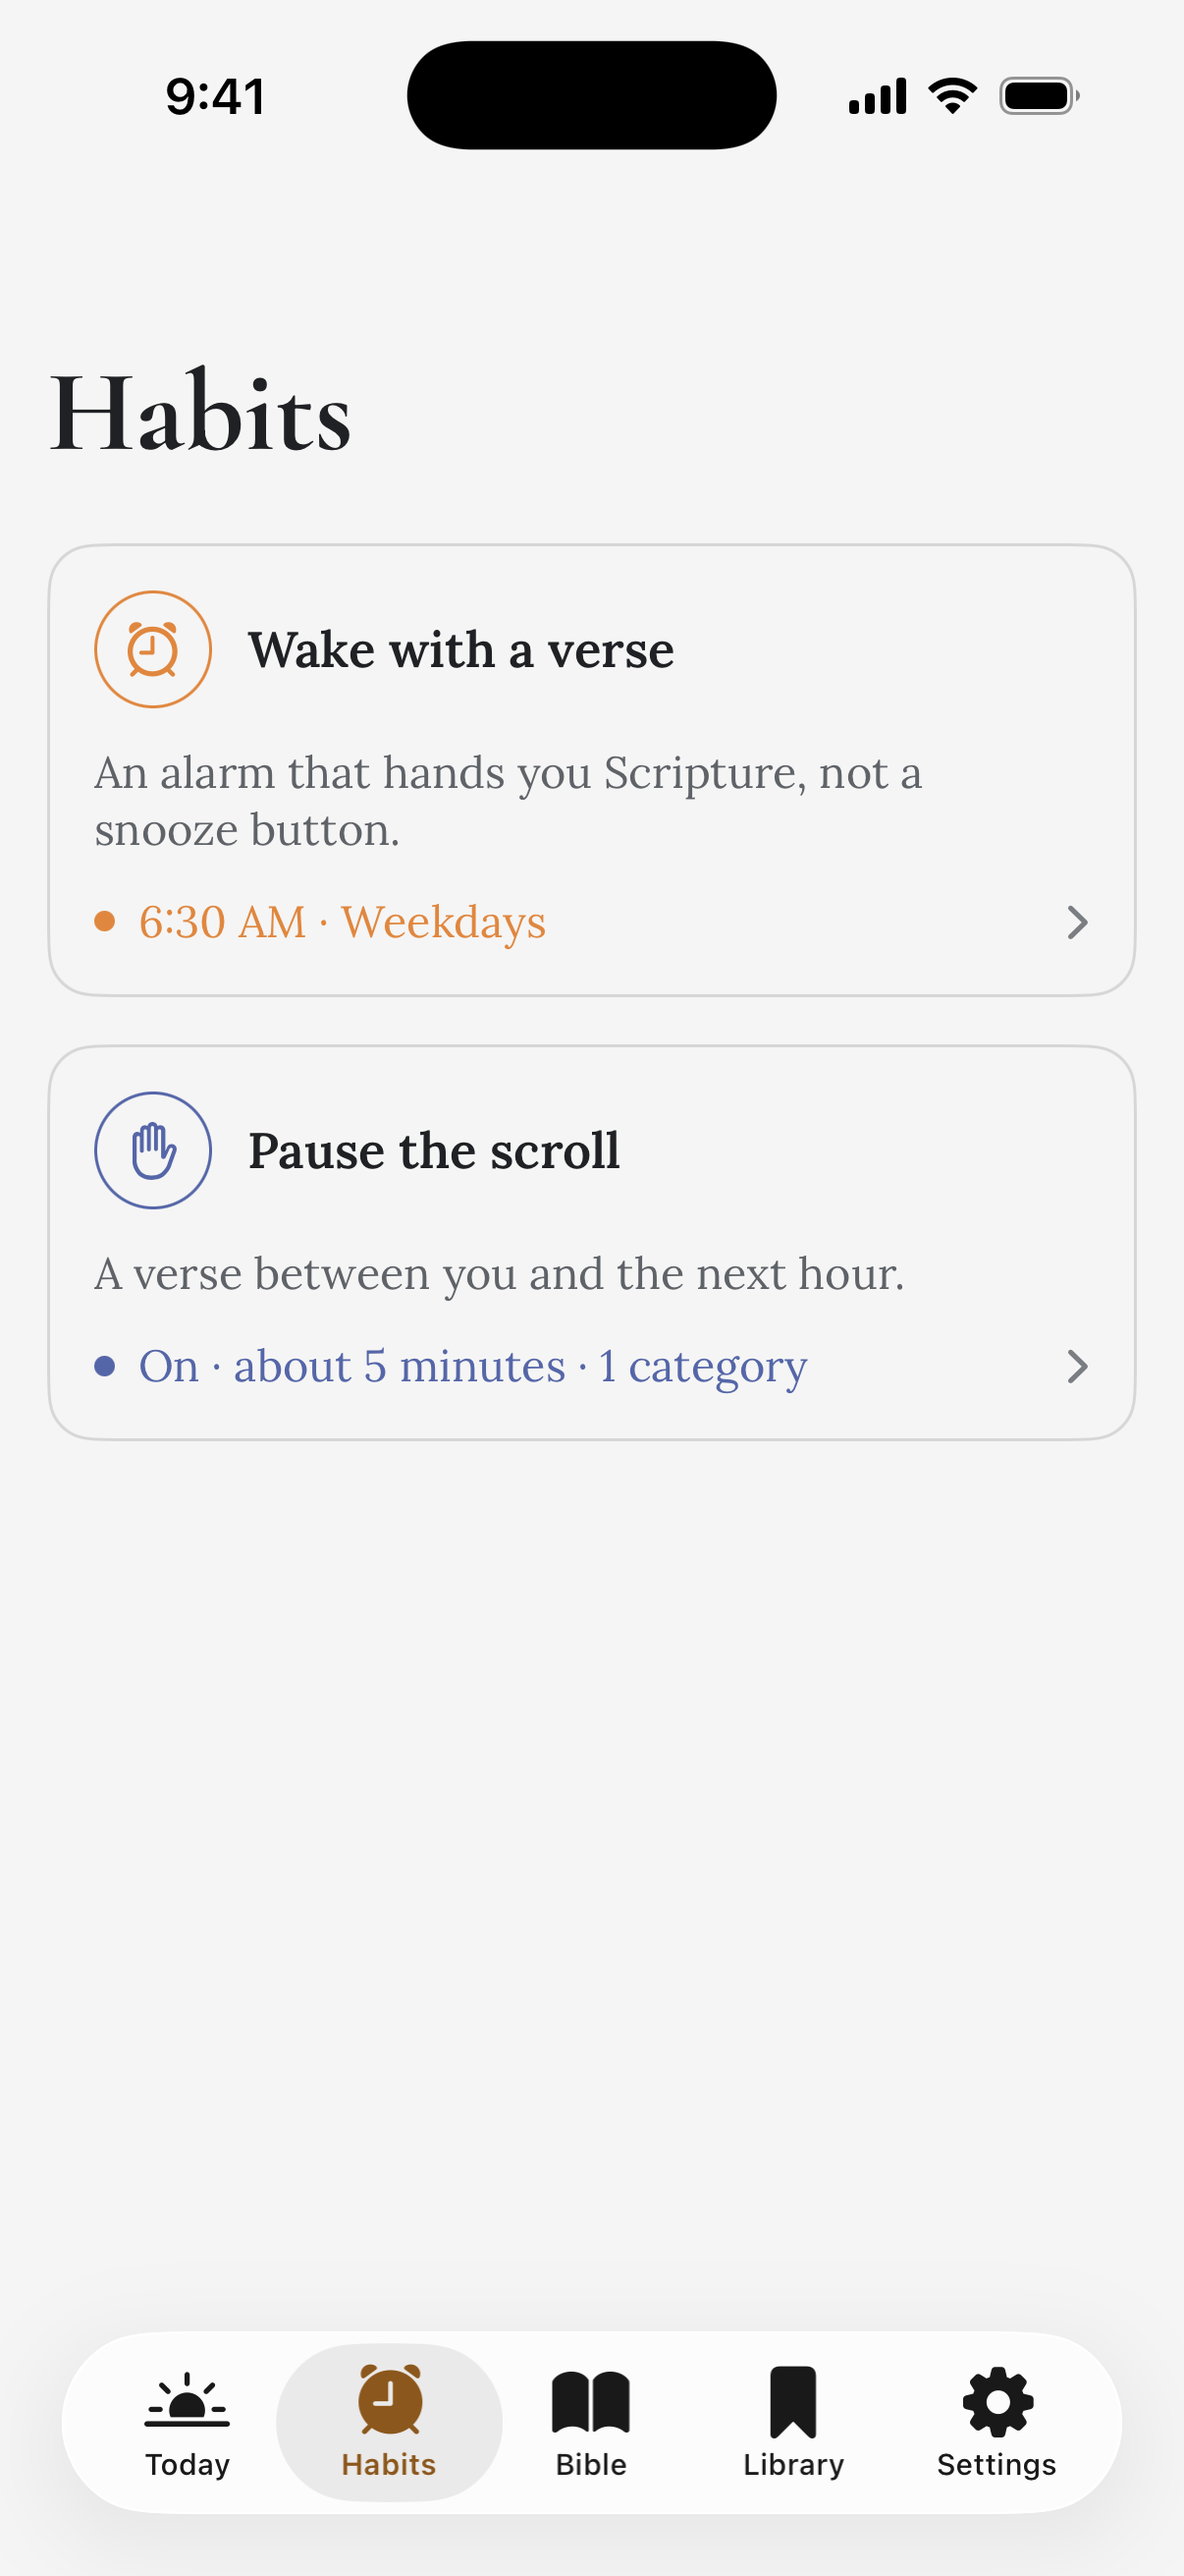
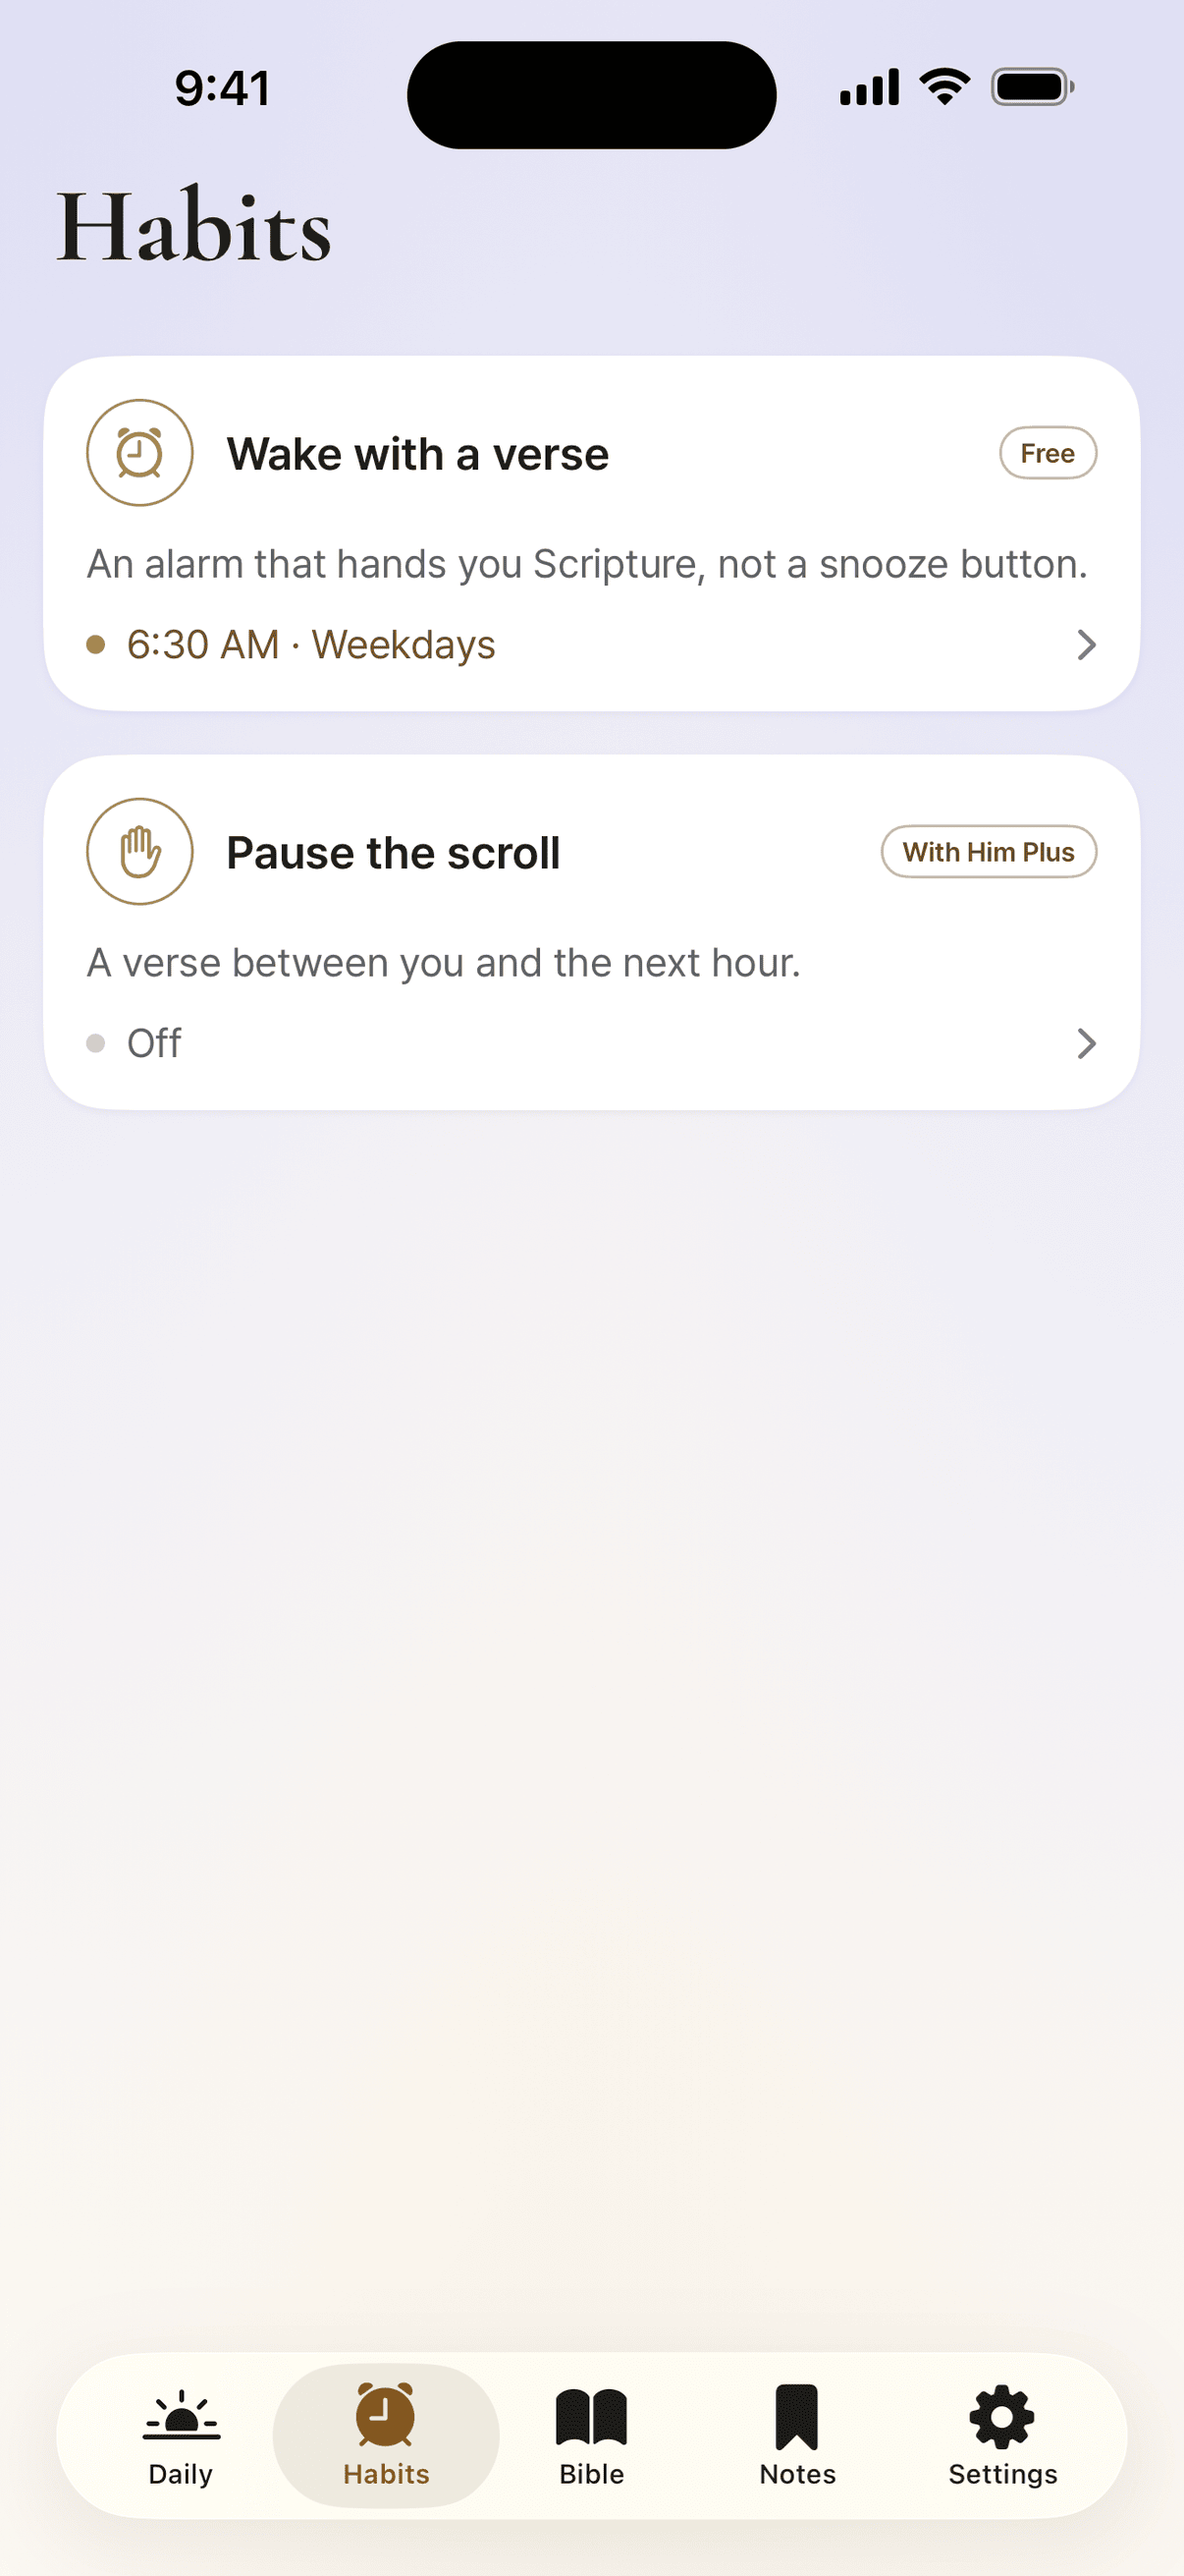
feat: show the app's Pearl Dusk light theme, and price what it reveals
The six landing-page captures were from the September build. Replace them
with the Pearl Dusk light-theme captures taken at 879b991, resampled to the
1206x2622 the pages already declare and quantised so the set stays near its
previous weight.

The new screens contradicted copy that had quietly gone stale:

- The saved-verse tab is now Notes, so library.png becomes notes.png and the
  Bible section says "Highlight verses and keep notes".
- The Habits screen badges the verse alarm Free and the Scroll Shield With
  Him Plus. The app agrees: PlusValueCopy.freePromise keeps Bible reading
  and the verse alarm free, and PaywallCopy.subhead sells Scroll Shield,
  sermon recording and cloud sync. Move the alarm into Free, rename the paid
  tier With Him Plus, and correct the same claim in terms.html section 4 and
  support.html section 6, which both still sold the alarm.
- The Scroll Shield spends an allowance of use, defaulting to ten minutes,
  not the five the page claimed.

Alt text that named Psalm 46 now names what the captures actually show, and
og.png is rendered from index.html's own hero markup rather than drawn by
hand, so the social card cannot drift from the page again.

diff --git a/index.html b/index.html
@@ -272,9 +272,9 @@
       <div class="hero-art" aria-label="With Him app screens">
         <div class="hero-stage">
           <div class="hero-arch" aria-hidden="true"></div>
-          <div class="device hero-back"><img src="assets/screenshots/today.png" width="1206" height="2622" alt="Today screen with Psalm 46 and the week's reading" fetchpriority="high"></div>
+          <div class="device hero-back"><img src="assets/screenshots/today.png" width="1206" height="2622" alt="Today screen with the day's verse from Isaiah 41 above the week's dates" fetchpriority="high"></div>
           <span class="hero-ring" aria-hidden="true"></span><span class="hero-ring second" aria-hidden="true"></span><span class="hero-ring third" aria-hidden="true"></span>
-          <div class="device hero-front"><img src="assets/screenshots/wake-gate.png" width="1206" height="2622" alt="Morning verse screen with words lighting up as they are read aloud" fetchpriority="high"></div>
+          <div class="device hero-front"><img src="assets/screenshots/wake-gate.png" width="1206" height="2622" alt="Morning verse screen with Isaiah 41:10 and the microphone that listens as you read" fetchpriority="high"></div>
           <span class="hero-chip"><i aria-hidden="true"><svg width="13" height="13" viewBox="0 0 24 24" fill="none" stroke="currentColor" stroke-width="2.4"><path d="M5 12.5l4.5 4.5L19 7.5"/></svg></i>Words light up as you read</span>
         </div>
       </div>
@@ -298,12 +298,12 @@
           <h3>Wake with a verse.</h3>
           <p>An alarm that hands you Scripture, not a snooze button. Read the verse out loud, watch each word light up, and the alarm goes quiet. No passage runs past sixty words.</p>
           <div class="moment-tags"><span>About 30 seconds</span><span>Or type it instead</span></div>
-          <div class="device moment-phone"><img src="assets/screenshots/habits.png" width="1206" height="2622" alt="Habits screen with a scheduled morning verse alarm" loading="lazy"></div>
+          <div class="device moment-phone"><img src="assets/screenshots/habits.png" width="1206" height="2622" alt="Habits screen with the free verse alarm set for 6:30 AM and Pause the scroll below it" loading="lazy"></div>
         </article>
         <article class="moment">
           <div class="moment-heading"><span class="moment-number">II</span>Mid-scroll</div>
           <h3>Pause the scroll.</h3>
-          <p>Guard your time against social media with a verse. After about five minutes of scrolling, one appears. Read it aloud and you’re right back in.</p>
+          <p>Guard your time against social media with a verse. After about ten minutes in the apps you picked, one appears. Read it aloud and you’re right back in.</p>
           <div class="moment-tags"><span>You pick the apps</span><span>Off in three taps, anytime</span></div>
           <div class="device moment-phone"><img src="assets/screenshots/focus-gate.png" width="1206" height="2622" alt="Pause the scroll screen with a verse and microphone" loading="lazy"></div>
         </article>
@@ -336,7 +336,7 @@
     <div class="container feature-layout">
       <div class="bible-gallery">
         <img class="shot" src="assets/screenshots/bible.png" width="1206" height="2622" alt="Bible reader open to John chapter 3 with a highlighted passage" loading="lazy">
-        <img class="shot" src="assets/screenshots/library.png" width="1206" height="2622" alt="Library screen showing saved verses and reading items" loading="lazy">
+        <img class="shot" src="assets/screenshots/notes.png" width="1206" height="2622" alt="Notes screen showing saved highlights with their own notes" loading="lazy">
       </div>
       <div>
         <h2 id="bible-title">The Bible is the heart of it.</h2>
@@ -344,7 +344,7 @@
         <ul class="feature-list">
           <li>All 66 books, free and offline</li>
           <li>Search the whole Bible</li>
-          <li>Save verses to your library</li>
+          <li>Highlight verses and keep notes</li>
         </ul>
       </div>
     </div>
@@ -352,28 +352,30 @@
   <section class="pricing-section" id="pricing" aria-labelledby="pricing-title">
     <div class="container">
       <div class="pricing-heading">
-        <h2 id="pricing-title">Scripture is free. Build the habit if you want to.</h2>
+        <h2 id="pricing-title">The Bible and the alarm are free. Plus is for the rest.</h2>
       </div>
       <div class="plans">
         <article class="plan">
           <h3>Free</h3>
           <p class="plan-price">$0</p>
-          <p>For reading whenever you need it.</p>
+          <p>Everything you need to wake up in the Word.</p>
           <ul>
             <li>The whole Bible, offline</li>
             <li>Today's verse and reading</li>
-            <li>Search and your library</li>
+            <li>Wake with a verse</li>
+            <li>Search, highlights, and notes</li>
           </ul>
           <a class="btn btn-ghost" href="https://apps.apple.com/us/app/with-him-wake-in-the-words/id6795353533" data-app-store="pricing-free">Get the app</a>
         </article>
         <article class="plan">
-          <h3>Habits</h3>
+          <h3>With Him Plus</h3>
           <p class="plan-price">$4.99 <small>/ month</small></p>
           <p>Or $39.99 a year. Eligible new subscribers get 7 days free.</p>
           <ul>
             <li>Everything in Free</li>
-            <li>Wake with a verse</li>
             <li>Pause the scroll</li>
+            <li>Record sermons and keep the notes</li>
+            <li>Your notes and highlights in sync</li>
           </ul>
           <a class="btn btn-primary" href="https://apps.apple.com/us/app/with-him-wake-in-the-words/id6795353533" data-app-store="pricing-habits">Explore in the app</a>
         </article>

diff --git a/support.html b/support.html
@@ -125,8 +125,8 @@
         <p>Apple hands the app opaque tokens instead of app identities, by design. We genuinely cannot see your selection, which is also why the app shows counts rather than names.</p>
 
         <h2 id="plus">6. What costs money, and what does not</h2>
-        <p><strong>The Bible reader is free and stays free.</strong> The complete offline text, search, cross-references, highlights, notes, bookmarks and the daily verse are not behind the subscription and are not scheduled to be.</p>
-        <p>With Him Plus buys the two mechanics around the reading: the alarm that ends when a verse is read aloud, and the Focus Shield. It is offered monthly or annually, and the price, the period and any trial are shown on the purchase screen in your own currency before you confirm.</p>
+        <p><strong>The Bible reader is free and stays free.</strong> The complete offline text, search, cross-references, highlights, notes, bookmarks and the daily verse are not behind the subscription and are not scheduled to be. <strong>The verse alarm is free too.</strong></p>
+        <p>With Him Plus buys the Focus Shield, sermon recording and note preparation, and account sync for your notes, highlights and bookmarks. It is offered monthly or annually, and the price, the period and any trial are shown on the purchase screen in your own currency before you confirm.</p>
         <h3>I paid, but Plus is not active</h3>
         <p>Open the paywall and tap <strong>Restore purchases</strong>. If nothing is found, the usual cause is a different Apple Account — subscriptions belong to the Apple Account that bought them, not to the app. Sign in with that account and restore again.</p>
 

diff --git a/terms.html b/terms.html
@@ -92,12 +92,14 @@
 
         <h2 id="free">3. What is free</h2>
         <p><strong>The Bible reader is free and stays free.</strong> The complete offline text, search, cross-references, highlights, notes and bookmarks are not behind the subscription and are not scheduled to be. Scripture is not a feature to be metered, and we will not begin metering it.</p>
+        <p><strong>The Voice-Dismissed Alarm is also free.</strong> The alarm that ends when a verse has been read aloud, and the daily verse it draws from, are not behind the subscription.</p>
 
         <h2 id="subscription">4. The subscription</h2>
-        <p>The subscription — With Him Plus — buys the two mechanics that surround the reading rather than the reading itself:</p>
+        <p>The subscription — With Him Plus — buys what surrounds the free reading and the free alarm rather than either of them:</p>
         <ul>
-          <li>The <strong>Voice-Dismissed Alarm</strong>, which ends when a verse has been read aloud rather than when a button is tapped.</li>
           <li>The <strong>Focus Shield</strong>, which interrupts a long scroll with the same short reading.</li>
+          <li><strong>Sermon recording and note preparation</strong>, which turns a service you recorded into a draft you edit and keep.</li>
+          <li><strong>Account sync</strong> for your notes, highlights and bookmarks, so they return on a new device.</li>
         </ul>
         <p>It is offered as a monthly and an annual plan. Where a free trial is offered, its length is stated on the purchase screen before you commit, and it applies once per Apple ID and per subscription group.</p>
 

diff --git a/join.html b/join.html
@@ -103,7 +103,7 @@
         <p class="cta-note">For iPhone · Requires iOS 26 or later · Free to download, with optional in-app purchases</p>
       </div>
       <figure class="preview">
-        <img src="assets/screenshots/wake-gate.png" width="1206" height="2622" alt="With Him wake screen showing Psalm 46:1 and a prompt to read the verse aloud.">
+        <img src="assets/screenshots/wake-gate.png" width="1206" height="2622" alt="With Him wake screen showing Isaiah 41:10 and a prompt to read the verse aloud.">
         <figcaption>The wake screen in the app</figcaption>
       </figure>
     </div>

diff --git a/README.md b/README.md
@@ -8,7 +8,13 @@ Live at <https://kipackjeong.github.io/withhim-funnel/>. The App Store listing i
 
 `index.html` is the main landing page. `join.html` keeps its existing URL but is now the download page; `thanks.html` is a welcome and sharing guide, not proof of installation. `support.html`, `privacy.html`, and `terms.html` retain their existing URLs, section anchors, and content while inheriting the landing page's light design system.
 
-The earlier pre-launch waitlist has ended. All download actions go directly to the App Store. The six real app captures used by the landing and download pages live in `assets/screenshots/`.
+The earlier pre-launch waitlist has ended. All download actions go directly to the App Store. The six real app captures used by the landing and download pages live in `assets/screenshots/`: `wake-gate`, `focus-gate`, `today`, `habits`, `bible`, and `notes`.
+
+## App captures
+
+`assets/screenshots/*.png` are real simulator captures of the app's **Pearl Dusk** light theme, taken from the app repo at `admin/assets/withim-ios-screenshots-1.0.14-879b991/raw/1320x2868/en/`. They are resampled to 1206×2622 — the `width`/`height` the pages declare — and quantised with `pngquant --quality=65-92 --speed 1 --strip`, which keeps each file in the 350–730 KB range without visible banding in the theme's gradients. Capture names map to the funnel names directly, except that the app's `library` capture is filed here as `notes.png` because the tab is now **Notes**.
+
+When the app's screens change, re-export from a fresh capture bundle rather than editing these files, and re-check the pages that name what is on screen: the hero and Bible-section `alt` text, the `Free` / `With Him Plus` feature lists on the landing page, and the equivalent sections in `support.html` and `terms.html`. The authoritative split lives in the app's `PlusValueCopy` and `PaywallCopy`: Bible reading, search, highlights, notes, the daily verse, and the verse alarm are free; With Him Plus buys the Focus Shield, sermon recording, and account sync.
 
 The published product also offers optional sermon processing; consult the current privacy policy before making account, cloud, or audio-processing claims on these pages.
 
@@ -22,4 +28,8 @@ The funnel runs on static HTML, CSS, and JavaScript. Keep the App Store URL and 
 
 ## Brand icon
 
-The favicon, apple-touch icon, and header/footer mark are all the App Store icon, `App/Resources/Assets.xcassets/AppIcon.appiconset/icon-1024.png` in the app repo, resampled into `assets/favicon-32.png`, `favicon-192.png`, `apple-touch-icon.png` (180px), and `app-icon.png` (128px, the wordmark mark in `shared.css`). When the app icon changes, regenerate those four files from the new 1024px source with `sips -z <size> <size> icon-1024.png --out assets/<name>.png`. `assets/og.png` is a separate hand-built social card and is not regenerated by this.
+The favicon, apple-touch icon, and header/footer mark are all the App Store icon, `App/Resources/Assets.xcassets/AppIcon.appiconset/icon-1024.png` in the app repo, resampled into `assets/favicon-32.png`, `favicon-192.png`, `apple-touch-icon.png` (180px), and `app-icon.png` (128px, the wordmark mark in `shared.css`). When the app icon changes, regenerate those four files from the new 1024px source with `sips -z <size> <size> icon-1024.png --out assets/<name>.png`.
+
+## Social card
+
+`assets/og.png` (1200×630) is rendered from the site's own markup, not drawn by hand, so it cannot drift from the landing page. The card reuses `index.html`'s `<style>` block and the `.wordmark`, `.hero-badge`, `.hero-arch`, and `.device` rules verbatim, placing the live `wake-gate` and `today` captures in the hero's device frames. Regenerate it after a screenshot or hero-copy change: build a temporary `_og.html` that inlines `index.html`'s `<style>` and the font/CSS `<link>`s, give it a 1200×630 `#og` root, screenshot it at a 1440px viewport and 2× device pixel ratio, downscale the top-left 1200×630 region, run it through `pngquant`, and delete `_og.html`. Keep it under ~100 KB; the card is served to every scraper that previews a link.
